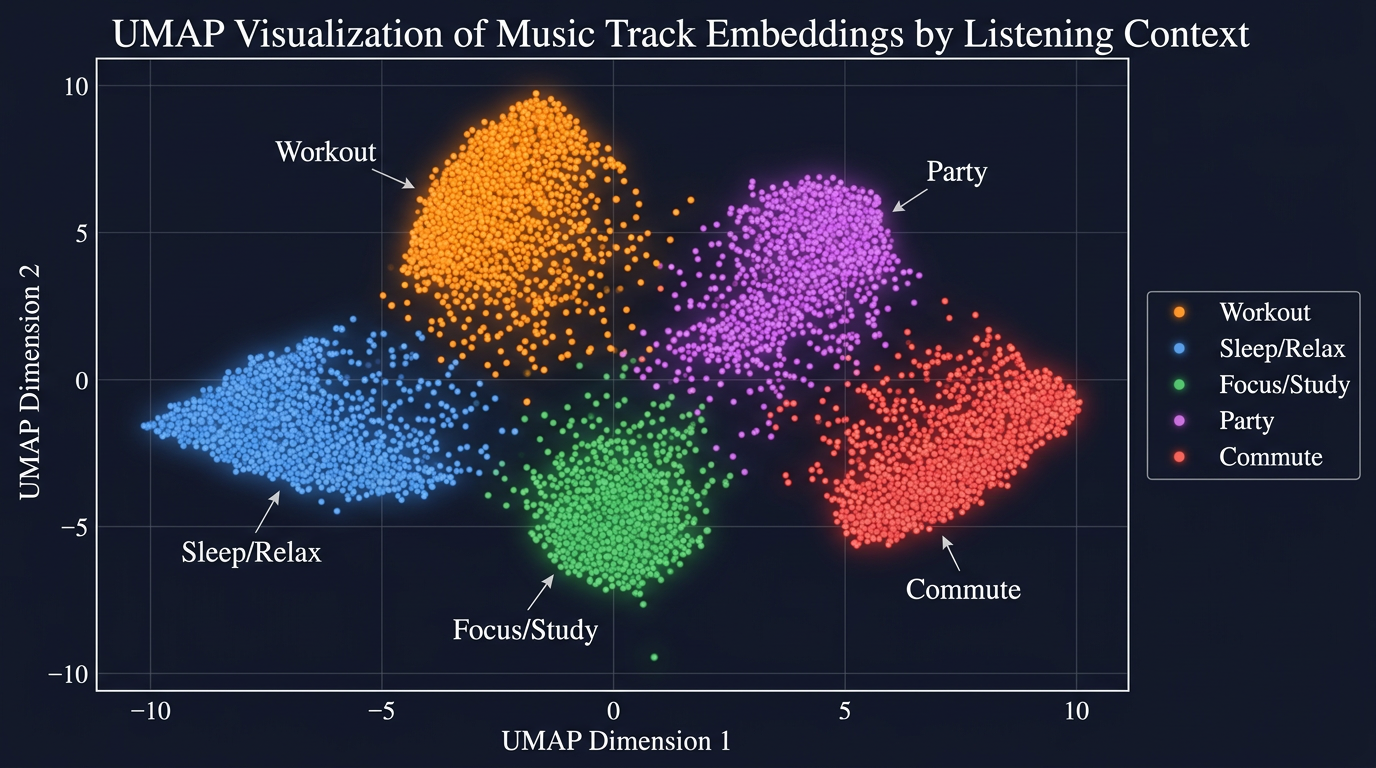
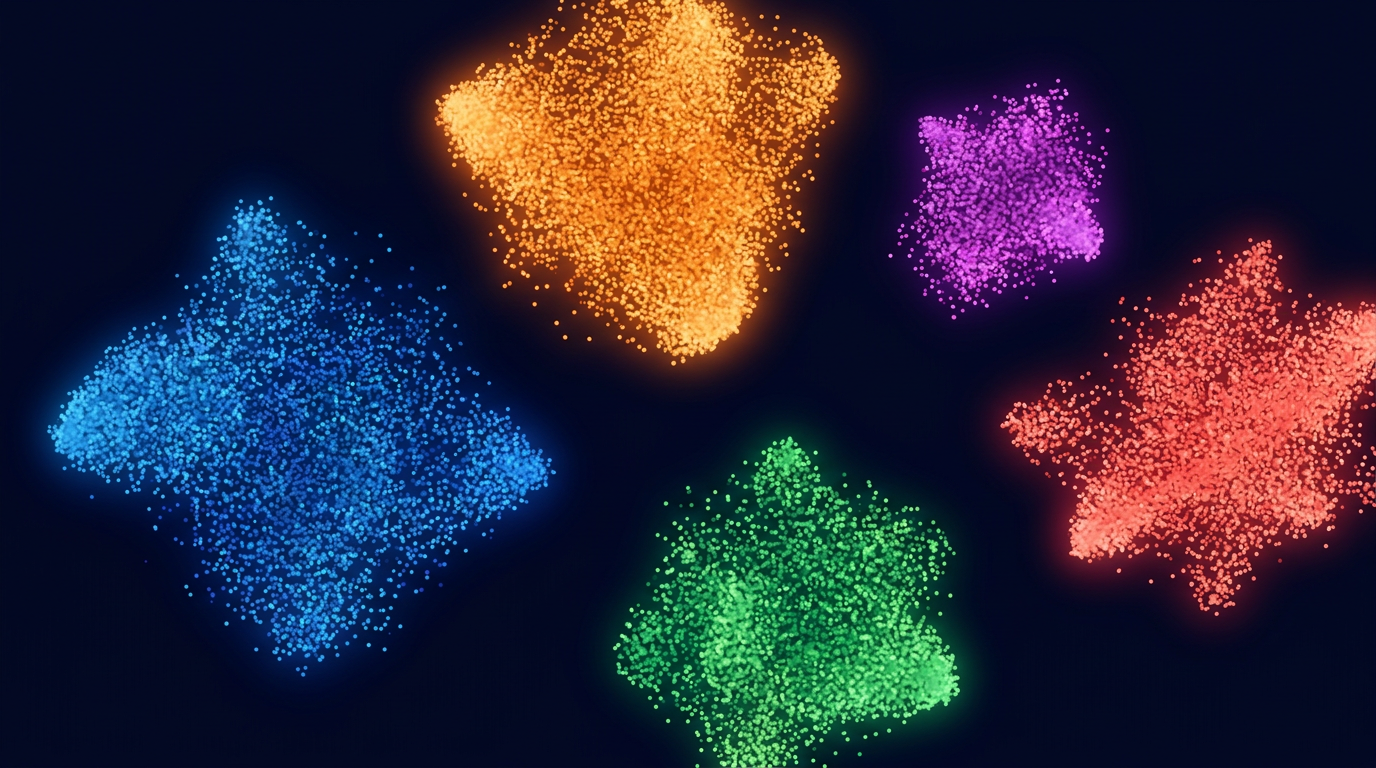
Polish portfolio cards: year above title, cleaner images
- Move year label above title in archive-single.html so the visual order
  is year → title → excerpt (was title → year → excerpt)
- Tighten year/title spacing so they read as a unit
- Replace context teaser with axis-free cluster plot (no legend or labels)
- Replace singing teaser with clean block diagram only (no title or bar charts)

Made-with: Cursor

diff --git a/_includes/archive-single.html b/_includes/archive-single.html
@@ -26,14 +26,6 @@
       </div>
     {% endif %}
 
-    <h2 class="archive__item-title" itemprop="headline">
-      {% if post.link %}
-        <a href="{{ post.link }}">{{ title }}</a> <a href="{{ base_path }}{{ post.url }}" rel="permalink"><i class="fa fa-link" aria-hidden="true" title="permalink"></i><span class="sr-only">Permalink</span></a>
-      {% else %}
-        <a href="{{ base_path }}{{ post.url }}" rel="permalink">{{ title }}</a>
-      {% endif %}
-    </h2>
-    
     {% if post.read_time %}
       <p class="page__meta"><i class="fa fa-clock-o" aria-hidden="true"></i> {% include read-time.html %}</p>
     {% endif %}
@@ -47,6 +39,14 @@
         {% elsif post.date %}
          <p class="page__date"><strong><i class="fa fa-fw fa-calendar" aria-hidden="true"></i> {{ site.data.ui-text[site.locale].date_label | default: "Published:" }}</strong> <time datetime="{{ post.date | default: "1900-01-01" | date_to_xmlschema }}">{{ post.date | default: "1900-01-01" | date: "%B %d, %Y" }}</time></p>
         {% endif %}
+
+    <h2 class="archive__item-title" itemprop="headline">
+      {% if post.link %}
+        <a href="{{ post.link }}">{{ title }}</a> <a href="{{ base_path }}{{ post.url }}" rel="permalink"><i class="fa fa-link" aria-hidden="true" title="permalink"></i><span class="sr-only">Permalink</span></a>
+      {% else %}
+        <a href="{{ base_path }}{{ post.url }}" rel="permalink">{{ title }}</a>
+      {% endif %}
+    </h2>
 
     {% if post.excerpt and site.read_more != 'enabled' %}
     <div class="archive__item-excerpt" itemprop="description">{{ post.excerpt | markdownify }}</div>

diff --git a/_sass/_custom.scss b/_sass/_custom.scss
@@ -542,7 +542,7 @@ td > code {
 
   .archive__item-title {
     margin-top: 0;
-    padding: 1em 1em 0.25em;
+    padding: 0.25em 1em 0.25em;
     font-size: $type-size-5;
     font-weight: 700;
     text-decoration: none;
@@ -571,7 +571,7 @@ td > code {
 
   /* year label */
   .archive__item-year {
-    padding: 0 1em 0.75em;
+    padding: 0.9em 1em 0.2em;
     font-size: $type-size-8;
     font-weight: 600;
     letter-spacing: 0.06em;
